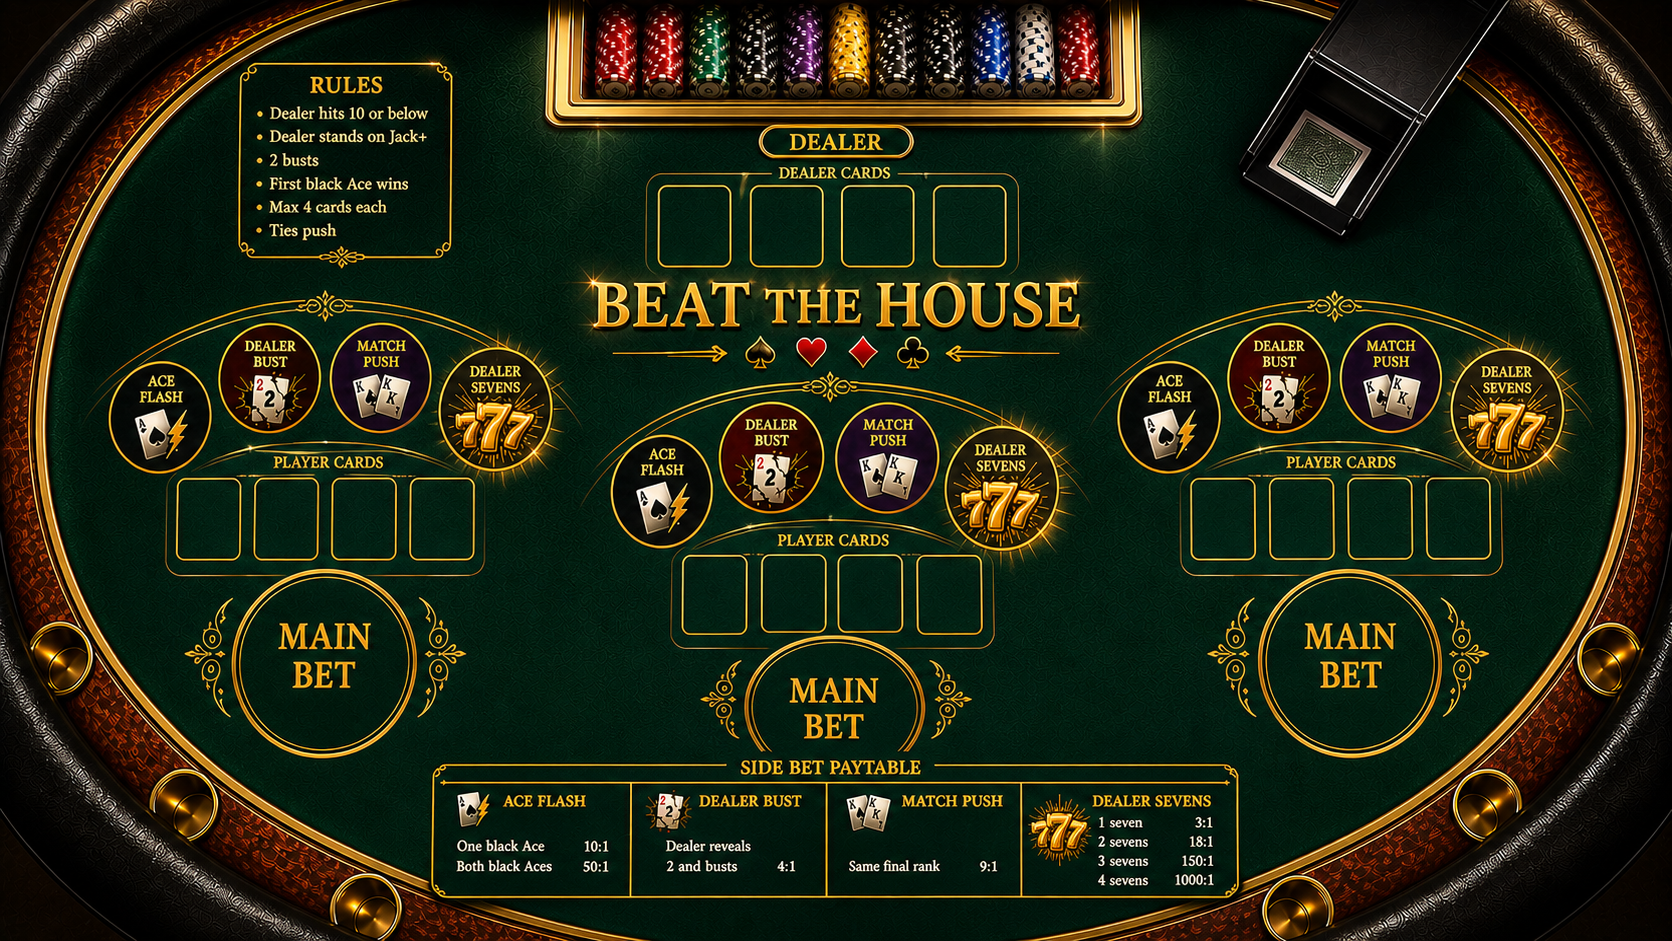
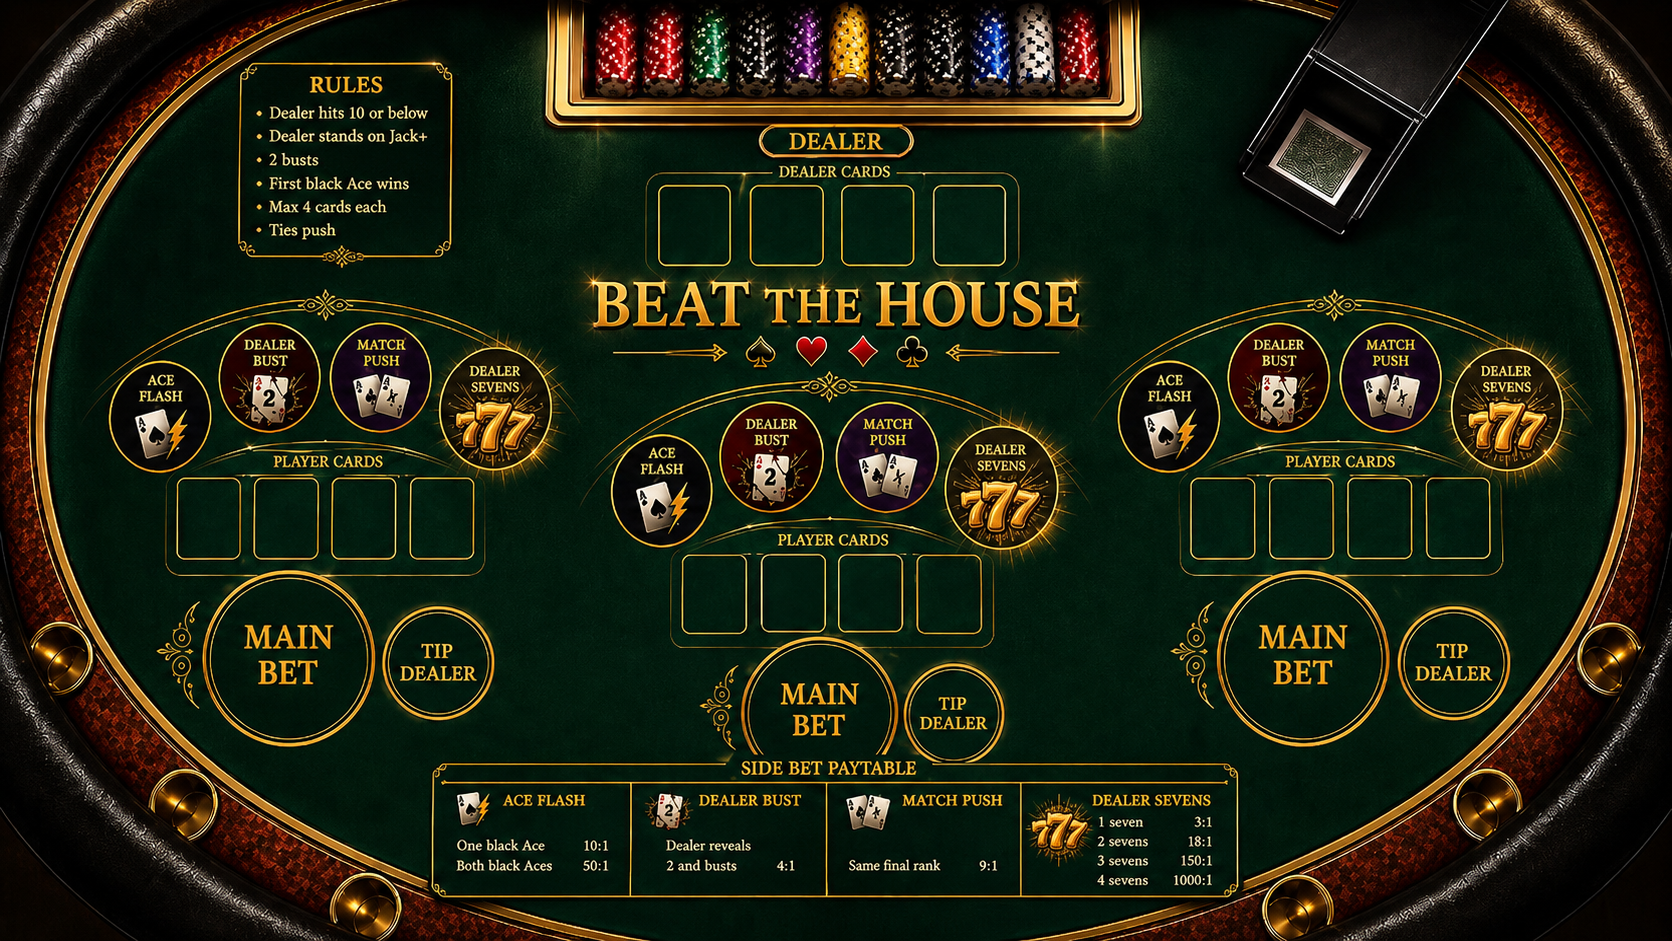
fix(beat-the-house): load dealer-tip table art (#177)

diff --git a/tests/unit/assets/assets-manifest.test.ts b/tests/unit/assets/assets-manifest.test.ts
@@ -1,3 +1,4 @@
+import { createHash } from 'node:crypto';
 import { existsSync, readFileSync, readdirSync, statSync } from 'node:fs';
 import { join } from 'node:path';
 import { inflateSync } from 'node:zlib';
@@ -30,6 +31,11 @@ const pngDimensions = (assetPath: string): string => {
   expect(buffer.subarray(1, 4).toString('ascii')).toBe('PNG');
   return `${buffer.readUInt32BE(16)}x${buffer.readUInt32BE(20)}`;
 };
+
+const sha256 = (assetPath: string): string =>
+  createHash('sha256')
+    .update(readFileSync(assetFilePath(assetPath)))
+    .digest('hex');
 
 const pngAlphaSummary = (
   assetPath: string,
@@ -177,6 +183,10 @@ describe('casino asset manifest', () => {
         .map((asset) => asset.path)
         .sort(),
     ).toEqual(['/assets/beat-the-house/table.png', '/assets/common/chips-sheet.png']);
+    expect(Object.fromEntries(assets.filter((asset) => asset.status === 'approved-user-provided').map((asset) => [asset.path, sha256(asset.path)]))).toEqual({
[2 lines of base64/hex data omitted]
+    });
   });
 
   it('provides distinct lobby tile and slot frame art for every catalog game', () => {

diff --git a/docs/assets-needed.md b/docs/assets-needed.md
@@ -18,7 +18,7 @@ Casino Warehouse uses `src/assets/manifest.ts` as the source of truth for produc
 | Temple slot symbol        | `public/assets/slots/symbols/temple.png`            | generated final        | `$imagegen`                                                                                                             | 512x512    | yes         | Thai Princess reel symbol                    |
 | Fan slot symbol           | `public/assets/slots/symbols/fan.png`               | generated final        | `$imagegen`                                                                                                             | 512x512    | yes         | Thai Princess reel symbol                    |
 | Orchid slot symbol        | `public/assets/slots/symbols/orchid.png`            | generated final        | `$imagegen`                                                                                                             | 512x512    | yes         | Thai Princess reel symbol                    |
[3 lines of base64/hex data omitted]
 
 No SVG files are currently referenced or kept as production assets. There are no intentional final vector assets in the current asset tree.
@@ -44,7 +44,7 @@ All generated assets were produced with the built-in `$imagegen` tool, copied in
 
 ## Current Confirmation
 
-`table.png` lives at `public/assets/beat-the-house/table.png` and is classified as approved user-provided production art.
+`table.png` lives at `public/assets/beat-the-house/table.png`, includes the visible Beat the House `TIP DEALER` areas, and is classified as approved user-provided production art. The former docs-only dealer-tip reference copy was removed after promotion so the production asset path is the tracked table-art source.
 
 `chips-sheet.png` lives at `public/assets/common/chips-sheet.png` and is classified as approved user-provided production art.
 
